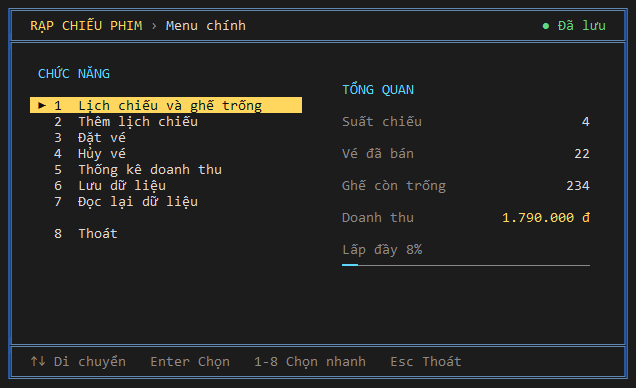
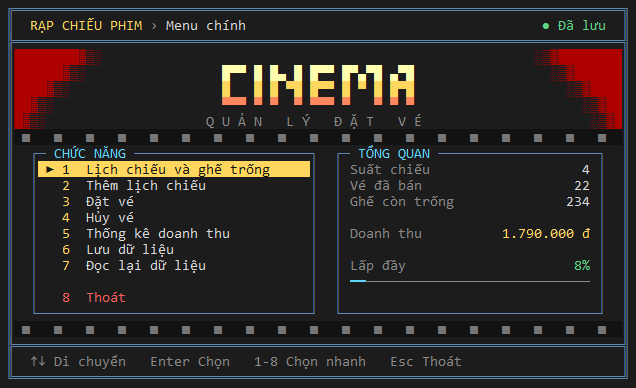
Trang trí menu chính và cập nhật README

diff --git a/src/manhinh.c b/src/manhinh.c
@@ -768,28 +768,78 @@ static void doc_luc_mo(UngDung *a) {
 
 /* ---------- Menu chính ---------- */
 
+static void ve_hop_vien(int hang, int cot, int rong, int cao, const char *tieu_de, int mau) {
+    char ngang[256] = "";
+    int i, con = rong - 5 - nl_do_rong(tieu_de);
+
+    for (i = 0; i < con; i++) strcat(ngang, "─");
+    ui_in(hang, cot, mau, M_NEN, "┌─ ");
+    ui_in(hang, cot + 3, M_NHAN, M_NEN, "%s", tieu_de);
+    ui_in(hang, cot + 3 + nl_do_rong(tieu_de), mau, M_NEN, " %s┐", ngang);
+    for (i = 1; i < cao - 1; i++) {
+        ui_in(hang + i, cot, mau, M_NEN, "│");
+        ui_in(hang + i, cot + rong - 1, mau, M_NEN, "│");
+    }
+    ngang[0] = '\0';
+    for (i = 0; i < rong - 2; i++) strcat(ngang, "─");
+    ui_in(hang + cao - 1, cot, mau, M_NEN, "└%s┘", ngang);
+}
+
+static void ve_dai_phim(int hang) {
+    char dai[128] = "";
+    int i;
+    for (i = 0; i < 19; i++) strcat(dai, " ■  ");
+    ui_in(hang, 1, 243, M_TOI, "%s", dai);
+}
+
 static void ve_tong_quan(const UngDung *a) {
     char tien[32], so[32];
     int tong_ghe = tk_tong_ghe(a->ds), ve = tk_tong_ve(a->ds);
     int ti_le = tong_ghe ? ve * 100 / tong_ghe : 0;
 
-    ui_in(5, 42, M_NHAN, M_NEN, "TỔNG QUAN");
+    ve_hop_vien(9, 41, 34, 11, "TỔNG QUAN", M_VIEN);
     snprintf(so, sizeof so, "%d", sc_dem(a->ds));
-    ui_o(7, 42, 16, M_MO, M_NEN, 0, "Suất chiếu");
-    ui_o(7, 58, 15, M_CHU, M_NEN, 1, so);
+    ui_o(10, 43, 15, M_MO, M_NEN, 0, "Suất chiếu");
+    ui_o(10, 58, 15, M_CHU, M_NEN, 1, so);
     snprintf(so, sizeof so, "%d", ve);
-    ui_o(9, 42, 16, M_MO, M_NEN, 0, "Vé đã bán");
-    ui_o(9, 58, 15, M_CHU, M_NEN, 1, so);
-    snprintf(so, sizeof so, "%d", tong_ghe - ve);
-    ui_o(11, 42, 16, M_MO, M_NEN, 0, "Ghế còn trống");
+    ui_o(11, 43, 15, M_MO, M_NEN, 0, "Vé đã bán");
     ui_o(11, 58, 15, M_CHU, M_NEN, 1, so);
+    snprintf(so, sizeof so, "%d", tong_ghe - ve);
+    ui_o(12, 43, 15, M_MO, M_NEN, 0, "Ghế còn trống");
+    ui_o(12, 58, 15, M_CHU, M_NEN, 1, so);
     nl_tien(tk_tong_doanh_thu(a->ds), tien, sizeof tien);
     snprintf(so, sizeof so, "%s đ", tien);
-    ui_o(13, 42, 16, M_MO, M_NEN, 0, "Doanh thu");
-    ui_o(13, 58, 15, M_VANG, M_NEN, 1, so);
-    snprintf(so, sizeof so, "Lấp đầy %d%%", ti_le);
-    ui_o(15, 42, 31, M_MO, M_NEN, 0, so);
-    ve_thanh(16, 42, 31, ve, tong_ghe);
+    ui_o(14, 43, 15, M_MO, M_NEN, 0, "Doanh thu");
+    ui_o(14, 58, 15, M_VANG, M_NEN, 1, so);
+    snprintf(so, sizeof so, "%d%%", ti_le);
+    ui_o(16, 43, 15, M_MO, M_NEN, 0, "Lấp đầy");
+    ui_o(16, 58, 15, M_XANH, M_NEN, 1, so);
+    ve_thanh(17, 43, 30, ve, tong_ghe);
+}
+
+/* Bảng hiệu rạp: rèm sân khấu hai bên, chữ lớn ở giữa và dải phim bên dưới. */
+static void ve_bang_hieu(void) {
+    static const char *const CHU[] = {
+        "█▀▀ █ █▄ █ █▀▀ █▀▄▀█ ▄▀█",
+        "█   █ █ ▀█ █▀▀ █ ▀ █ █▀█",
+        "▀▀▀ ▀ ▀  ▀ ▀▀▀ ▀   ▀ ▀ ▀",
+    };
+    static const int MAU_CHU[] = {229, 221, 209};
+    int i, j;
+
+    for (i = 0; i < 5; i++) {
+        char day[64] = "";
+        int dac = 8 - i * 2 > 1 ? 8 - i * 2 : 1, rong = dac + 3;
+        for (j = 0; j < dac; j++) strcat(day, "█");
+        ui_in(3 + i, 1, 124, M_NEN, "%s", day);
+        ui_in(3 + i, 1 + dac, 124, M_NEN, "▓▒░");
+        ui_in(3 + i, 77 - rong, 124, M_NEN, "░▒▓");
+        ui_in(3 + i, 80 - rong, 124, M_NEN, "%s", day);
+    }
+    for (i = 0; i < 3; i++) ui_o(4 + i, 16, 46, MAU_CHU[i], M_NEN, 2, CHU[i]);
+    ui_o(7, 16, 46, M_MO, M_NEN, 2, "Q U Ả N   L Ý   Đ Ặ T   V É");
+    ve_dai_phim(8);
+    ve_dai_phim(20);
 }
 
 void man_chay(const char *tep_du_lieu) {
@@ -810,11 +860,15 @@ void man_chay(const char *tep_du_lieu) {
         int i, phim, thuc_hien = 0;
 
         khung(&a, "Menu chính", "↑↓ Di chuyển   Enter Chọn   1-8 Chọn nhanh   Esc Thoát");
-        ui_in(4, 4, M_NHAN, M_NEN, "CHỨC NĂNG");
+        ve_bang_hieu();
+        ve_hop_vien(9, 3, 36, 11, "CHỨC NĂNG", M_VIEN);
         for (i = 0; i < SO_MUC; i++) {
-            int y = 6 + i + (i == SO_MUC - 1), fg = i == chon ? M_TOI : M_CHU, bg = i == chon ? M_VANG : M_NEN;
-            ui_o(y, 3, 34, fg, bg, 0, "");
-            ui_in(y, 4, fg, bg, "%s %d  %s", i == chon ? "►" : " ", i + 1, MUC[i]);
+            int y = 10 + i + (i == SO_MUC - 1), dang = i == chon, thoat = i == SO_MUC - 1;
+            int bg = dang ? M_VANG : M_NEN, fg = dang ? M_TOI : (thoat ? M_DO : M_CHU);
+            ui_o(y, 4, 34, fg, bg, 0, "");
+            ui_in(y, 5, fg, bg, "%s", dang ? "►" : " ");
+            ui_in(y, 7, dang ? M_TOI : (thoat ? M_DO : M_VANG), bg, "%d", i + 1);
+            ui_in(y, 10, fg, bg, "%s", MUC[i]);
         }
         ve_tong_quan(&a);
         ui_xuat();

diff --git a/README.md b/README.md
@@ -65,9 +65,9 @@ Các ví dụ dưới đây dùng dữ liệu mẫu, trừ một số ảnh minh
 
 ![Menu chính](docs/screenshots/01-menu-chinh.png)
 
-Cột trái là 8 chức năng, chọn bằng `↑` `↓` rồi `Enter`, hoặc nhấn phím số `1` đến `8`. `Esc` tương đương chọn Thoát.
+Phần trên là bảng hiệu `CINEMA` với rèm sân khấu ở hai góc và dải phim bên dưới. Khung **Chức năng** bên trái có 8 mục, chọn bằng `↑` `↓` rồi `Enter`, hoặc nhấn phím số `1` đến `8`. Mục đang chọn được tô nền vàng; `Esc` tương đương chọn Thoát.
 
-Cột phải là phần tổng quan, tính lại mỗi lần vẽ màn hình:
+Khung **Tổng quan** bên phải được tính lại mỗi lần vẽ màn hình:
 
 | Chỉ số | Giá trị mẫu | Cách tính |
 |---|---|---|
